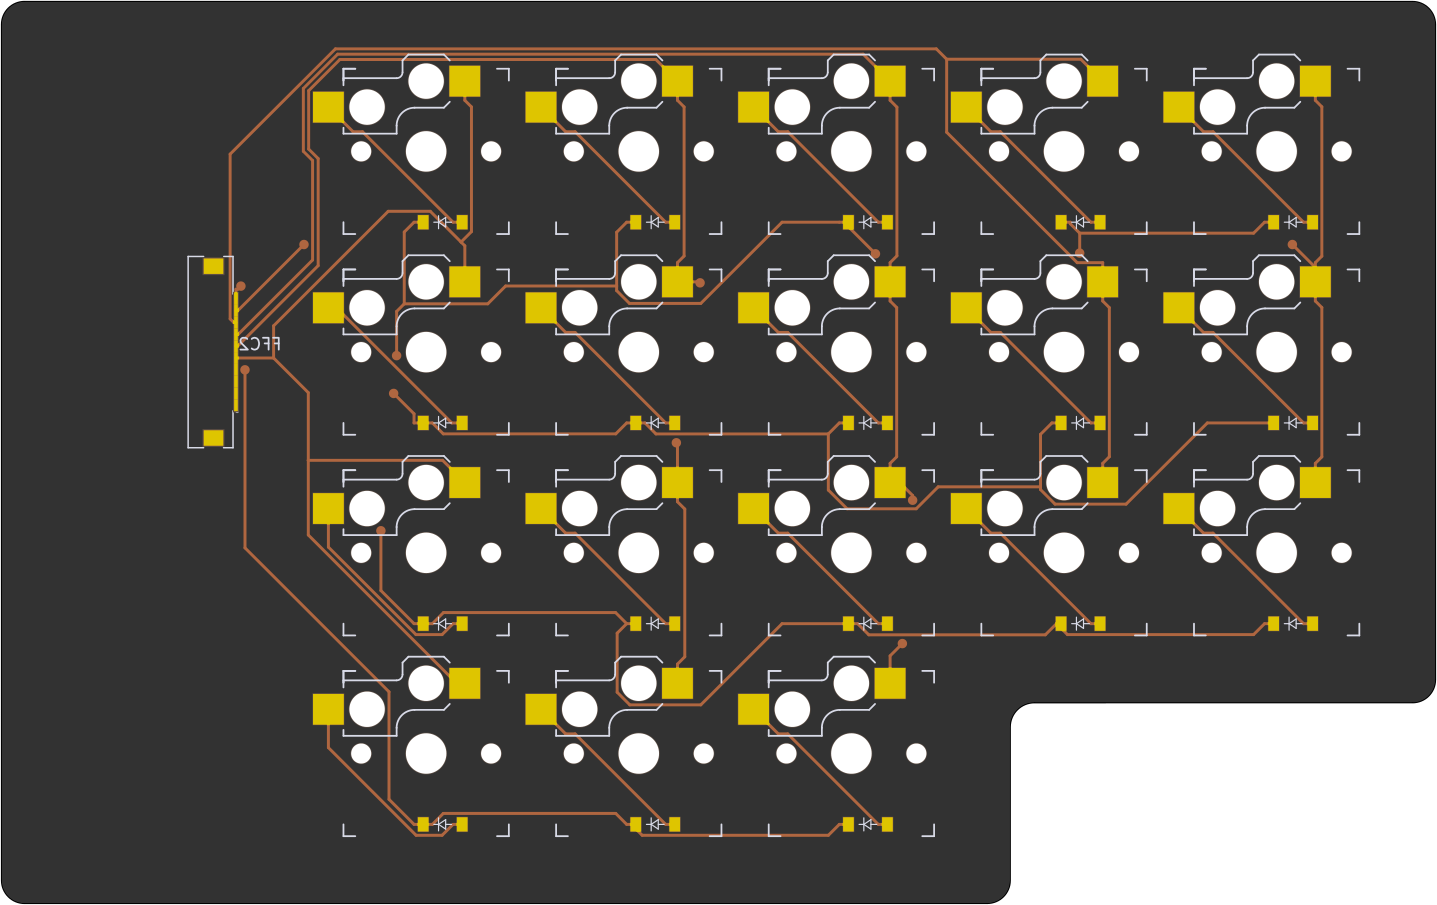
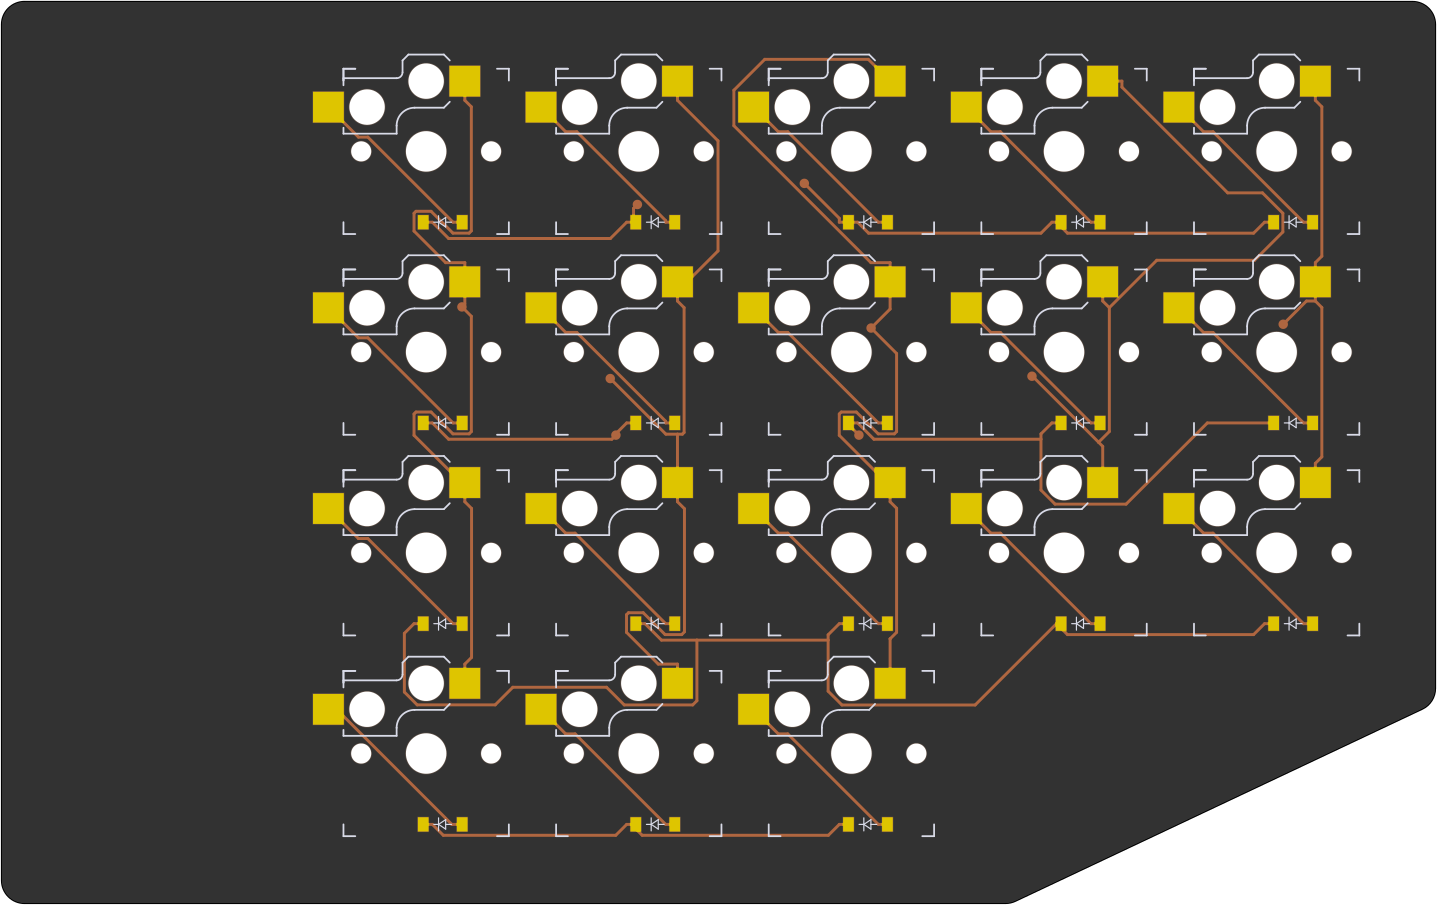
Add some labels on the SilkS layer for clarity

diff --git a/input/footprints/ffc_connector.js b/input/footprints/ffc_connector.js
@@ -20,24 +20,31 @@ module.exports = {
         ${p.at /* parametric position */}
         (attr virtual)
         
-        (fp_text reference "${p.ref}" (at 0.665 -3.925 0) (layer ${p.side}.SilkS)
-          (effects (font (size 1.0 1.0) (thickness 0.15)))
-        )
-        (fp_text value 686110183522 (at 5.17 3.435 0) (layer ${p.side}.Fab)
-          (effects (font (size 1.0 1.0) (thickness 0.15)))
-        )
+        (fp_text reference "${p.ref}" (at 0.665 5 0) (layer ${p.side}.SilkS) (effects (font (size 1.0 1.0) (thickness 0.15))))
+        (fp_text value 686110183522 (at 5.17 3.435 0) (layer ${p.side}.Fab) (effects (font (size 1.0 1.0) (thickness 0.15))))
         (pad Z1 smd rect (at -7.275 0.0) (size 1.65 1.3) (layers ${p.side}.Cu ${p.side}.Mask ${p.side}.Paste) (solder_mask_margin 0.102))
         (pad Z2 smd rect (at 7.275 0.0) (size 1.65 1.3) (layers ${p.side}.Cu ${p.side}.Mask ${p.side}.Paste) (solder_mask_margin 0.102))
-        (pad 1 smd rect (at -4.5 -1.9 90.0) (size 1.0 0.3) (layers ${p.side}.Cu ${p.side}.Mask ${p.side}.Paste) (solder_mask_margin 0.102) ${p.P0.str})
-        (pad 2 smd rect (at -3.5 -1.9 90.0) (size 1.0 0.3) (layers ${p.side}.Cu ${p.side}.Mask ${p.side}.Paste) (solder_mask_margin 0.102) ${p.P1.str})
-        (pad 3 smd rect (at -2.5 -1.9 90.0) (size 1.0 0.3) (layers ${p.side}.Cu ${p.side}.Mask ${p.side}.Paste) (solder_mask_margin 0.102) ${p.P2.str})
-        (pad 4 smd rect (at -1.5 -1.9 90.0) (size 1.0 0.3) (layers ${p.side}.Cu ${p.side}.Mask ${p.side}.Paste) (solder_mask_margin 0.102) ${p.P3.str})
-        (pad 5 smd rect (at -0.5 -1.9 90.0) (size 1.0 0.3) (layers ${p.side}.Cu ${p.side}.Mask ${p.side}.Paste) (solder_mask_margin 0.102) ${p.P4.str})
-        (pad 6 smd rect (at 0.5 -1.9 90.0) (size 1.0 0.3) (layers ${p.side}.Cu ${p.side}.Mask ${p.side}.Paste) (solder_mask_margin 0.102) ${p.P5.str})
-        (pad 7 smd rect (at 1.5 -1.9 90.0) (size 1.0 0.3) (layers ${p.side}.Cu ${p.side}.Mask ${p.side}.Paste) (solder_mask_margin 0.102) ${p.P6.str})
-        (pad 8 smd rect (at 2.5 -1.9 90.0) (size 1.0 0.3) (layers ${p.side}.Cu ${p.side}.Mask ${p.side}.Paste) (solder_mask_margin 0.102) ${p.P7.str})
-        (pad 9 smd rect (at 3.5 -1.9 90.0) (size 1.0 0.3) (layers ${p.side}.Cu ${p.side}.Mask ${p.side}.Paste) (solder_mask_margin 0.102) ${p.P8.str})
-        (pad 10 smd rect (at 4.5 -1.9 90.0) (size 1.0 0.3) (layers ${p.side}.Cu ${p.side}.Mask ${p.side}.Paste) (solder_mask_margin 0.102) ${p.P9.str})
+        
+        (fp_text user P0 (at -4.5 0) (layer F.SilkS) (effects (font (size 0.6 0.6) (thickness 0.15))))
+        (pad 0 smd rect (at -4.5 -1.9 ${p.rot}) (size 0.3 1.0) (layers ${p.side}.Cu ${p.side}.Mask ${p.side}.Paste) (solder_mask_margin 0.102) ${p.P0.str})
+        (fp_text user P1 (at -3.5 0) (layer F.SilkS) (effects (font (size 0.6 0.6) (thickness 0.15))))
+        (pad 1 smd rect (at -3.5 -1.9 ${p.rot}) (size 0.3 1.0) (layers ${p.side}.Cu ${p.side}.Mask ${p.side}.Paste) (solder_mask_margin 0.102) ${p.P1.str})
+        (fp_text user P2 (at -2.5 0) (layer F.SilkS) (effects (font (size 0.6 0.6) (thickness 0.15))))
+        (pad 2 smd rect (at -2.5 -1.9 ${p.rot}) (size 0.3 1.0) (layers ${p.side}.Cu ${p.side}.Mask ${p.side}.Paste) (solder_mask_margin 0.102) ${p.P2.str})
+        (fp_text user P3 (at -1.5 0) (layer F.SilkS) (effects (font (size 0.6 0.6) (thickness 0.15))))
+        (pad 3 smd rect (at -1.5 -1.9 ${p.rot}) (size 0.3 1.0) (layers ${p.side}.Cu ${p.side}.Mask ${p.side}.Paste) (solder_mask_margin 0.102) ${p.P3.str})
+        (fp_text user P4 (at -0.5 0) (layer F.SilkS) (effects (font (size 0.6 0.6) (thickness 0.15))))
+        (pad 4 smd rect (at -0.5 -1.9 ${p.rot}) (size 0.3 1.0) (layers ${p.side}.Cu ${p.side}.Mask ${p.side}.Paste) (solder_mask_margin 0.102) ${p.P4.str})
+        (fp_text user P5 (at 0.5 0) (layer F.SilkS) (effects (font (size 0.6 0.6) (thickness 0.15))))
+        (pad 5 smd rect (at 0.5 -1.9 ${p.rot}) (size 0.3 1.0) (layers ${p.side}.Cu ${p.side}.Mask ${p.side}.Paste) (solder_mask_margin 0.102) ${p.P5.str})
+        (fp_text user P6 (at 1.5 0) (layer F.SilkS) (effects (font (size 0.6 0.6) (thickness 0.15))))
+        (pad 6 smd rect (at 1.5 -1.9 ${p.rot}) (size 0.3 1.0) (layers ${p.side}.Cu ${p.side}.Mask ${p.side}.Paste) (solder_mask_margin 0.102) ${p.P6.str})
+        (fp_text user P7 (at 2.5 0) (layer F.SilkS) (effects (font (size 0.6 0.6) (thickness 0.15))))
+        (pad 7 smd rect (at 2.5 -1.9 ${p.rot}) (size 0.3 1.0) (layers ${p.side}.Cu ${p.side}.Mask ${p.side}.Paste) (solder_mask_margin 0.102) ${p.P7.str})
+        (fp_text user P8 (at 3.5 0) (layer F.SilkS) (effects (font (size 0.6 0.6) (thickness 0.15))))
+        (pad 8 smd rect (at 3.5 -1.9 ${p.rot}) (size 0.3 1.0) (layers ${p.side}.Cu ${p.side}.Mask ${p.side}.Paste) (solder_mask_margin 0.102) ${p.P8.str})
+        (fp_text user P9 (at 4.5 0) (layer F.SilkS) (effects (font (size 0.6 0.6) (thickness 0.15))))
+        (pad 9 smd rect (at 4.5 -1.9 ${p.rot}) (size 0.3 1.0) (layers ${p.side}.Cu ${p.side}.Mask ${p.side}.Paste) (solder_mask_margin 0.102) ${p.P9.str})
         (fp_line (start -8.1 -1.65) (end 8.1 -1.65) (layer ${p.side}.Fab) (width 0.127))
         (fp_line (start 8.1 -1.65) (end 8.1 2.15) (layer ${p.side}.Fab) (width 0.127))
         (fp_line (start 8.1 2.15) (end -8.1 2.15) (layer ${p.side}.Fab) (width 0.127))
